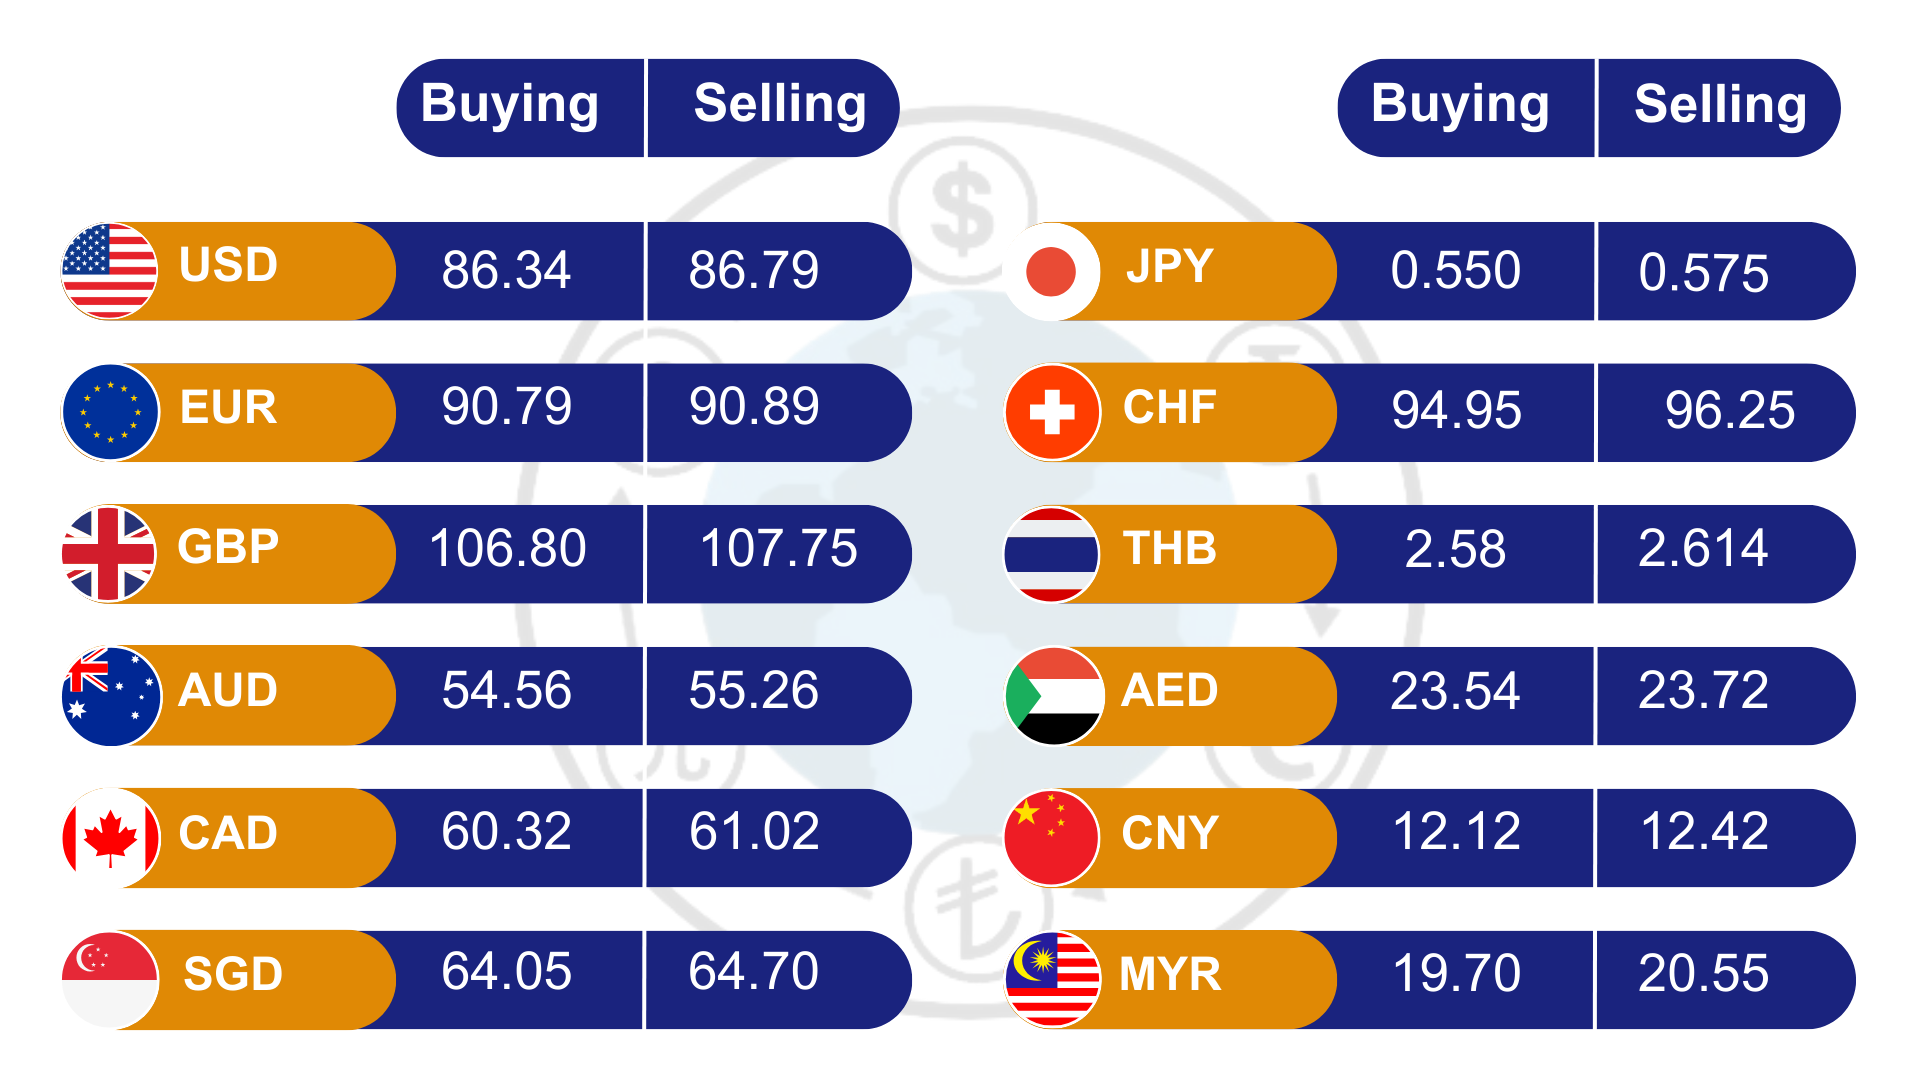
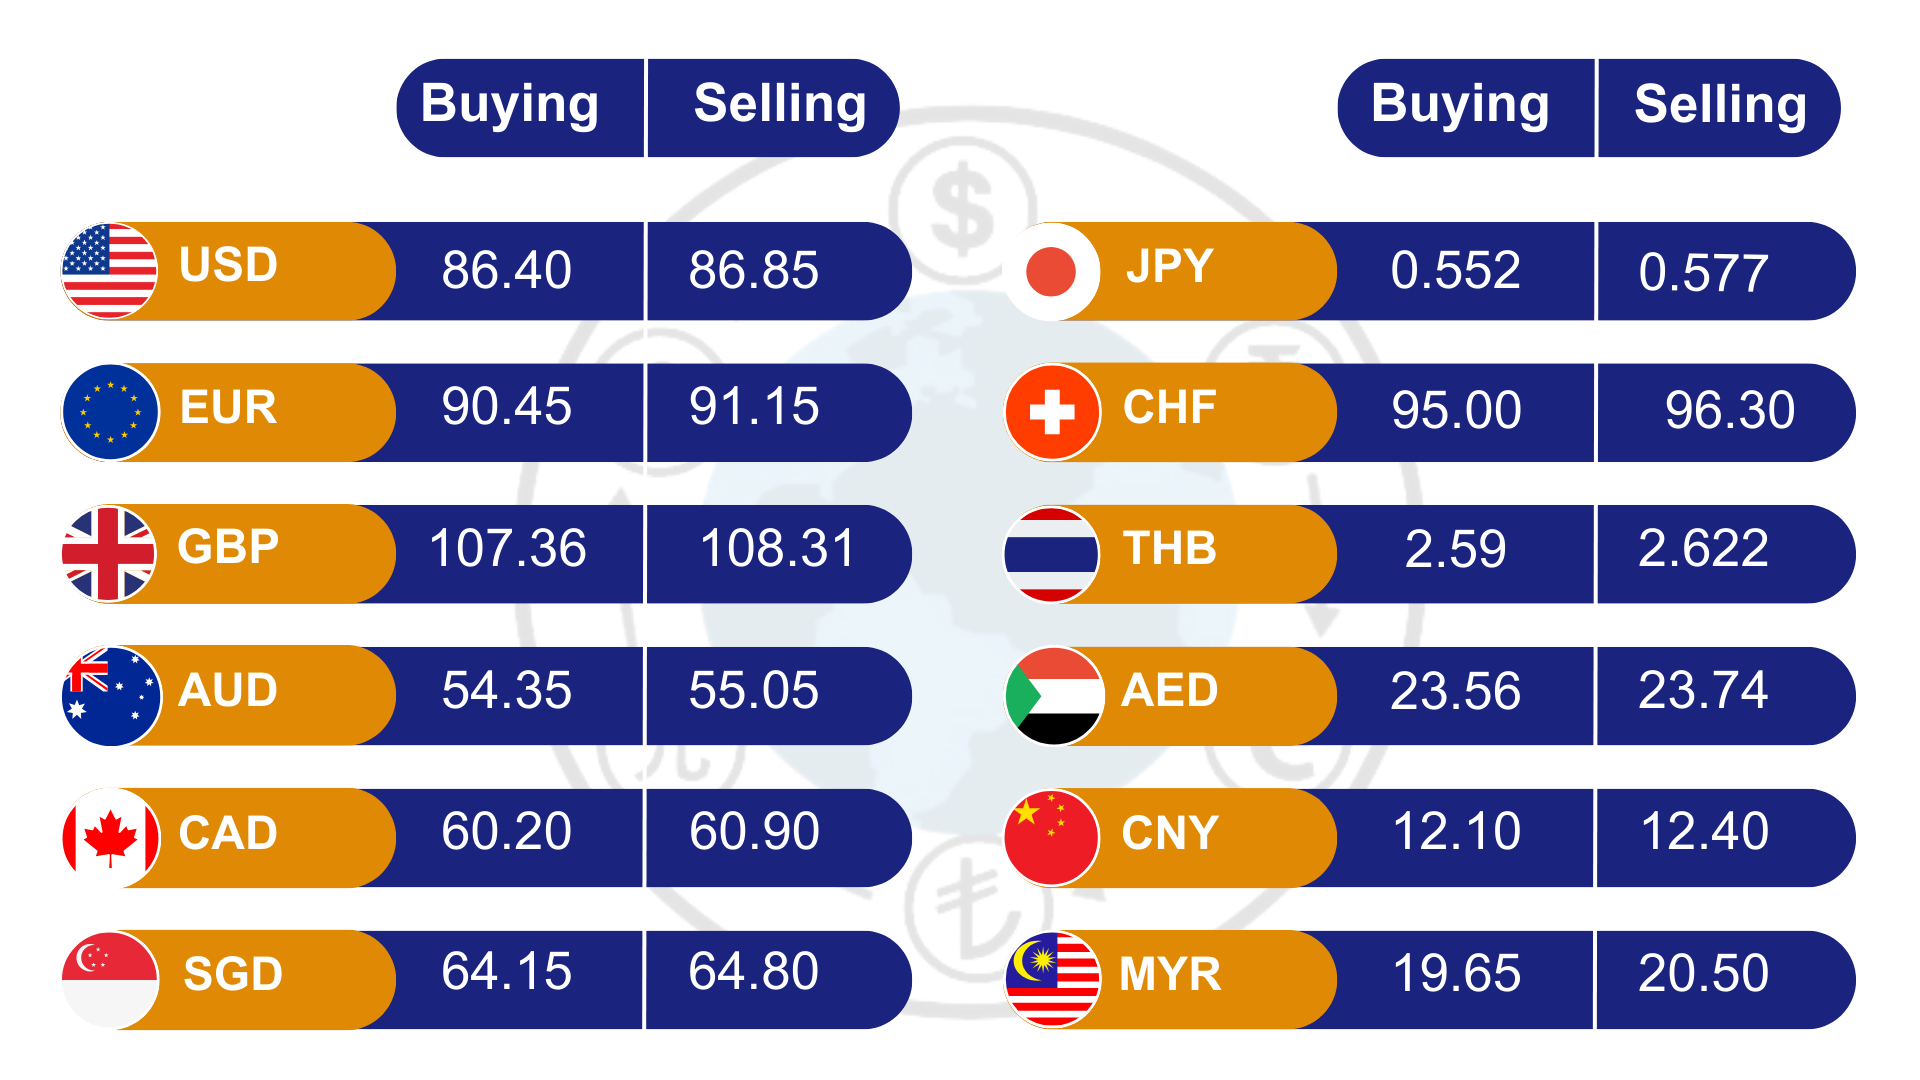
rates

diff --git a/app/components/Form.js b/app/components/Form.js
@@ -16,22 +16,22 @@ export default function FormTabs() {
   const [city, setCity] = useState("");
 
   const exchangeRates = {
-    USD: { buyRate: 86.20, sellRate: 86.65, symbol: "$" },
+    USD: { buyRate: 86.4, sellRate: 86.85, symbol: "$" },
     EUR: { buyRate: 90.45, sellRate: 91.15, symbol: "€" },
     GBP: { buyRate: 107.36, sellRate: 108.31, symbol: "£" },
     AUD: { buyRate: 54.35, sellRate: 55.05, symbol: "A$" },
-    CAD: { buyRate: 60.20, sellRate: 60.90, symbol: "C$" },
-    NZD: { buyRate: 48.70, sellRate: 50.00, symbol: "$" },
-    AED: { buyRate: 23.52, sellRate: 23.70, symbol: "د.إ" },
-    SGD: { buyRate: 64.10, sellRate: 64.75, symbol: "S$" },
+    CAD: { buyRate: 60.2, sellRate: 60.9, symbol: "C$" },
+    NZD: { buyRate: 48.4, sellRate: 49.7, symbol: "$" },
+    AED: { buyRate: 23.56, sellRate: 23.74, symbol: "د.إ" },
+    SGD: { buyRate: 64.15, sellRate: 64.8, symbol: "S$" },
     THB: { buyRate: 2.59, sellRate: 2.622, symbol: "฿" },
-    CHF: { buyRate: 95.00, sellRate: 96.30, symbol: "CHF" },
+    CHF: { buyRate: 95.0, sellRate: 96.3, symbol: "CHF" },
     JPY: { buyRate: 0.552, sellRate: 0.577, symbol: "¥" },
-    HKD: { buyRate: 11.20, sellRate: 11.65, symbol: "HK$" },
-    MYR: { buyRate: 19.65, sellRate: 20.55, symbol: "RM" },
-    SAR: { buyRate: 22.70, sellRate: 23.40, symbol: "﷼" },
-    CNY: { buyRate: 12.10, sellRate: 12.40, symbol: "¥" },
-    VND: { buyRate: 0.00350, sellRate: 0.00384, symbol: "₫" },
+    HKD: { buyRate: 11.2, sellRate: 11.65, symbol: "HK$" },
+    MYR: { buyRate: 19.65, sellRate: 20.5, symbol: "RM" },
+    SAR: { buyRate: 22.7, sellRate: 23.5, symbol: "﷼" },
+    CNY: { buyRate: 12.1, sellRate: 12.4, symbol: "¥" },
+    VND: { buyRate: 0.0035, sellRate: 0.00384, symbol: "₫" },
     IDR: { buyRate: 0.00534, sellRate: 0.00592, symbol: "Rp" },
   };
 
